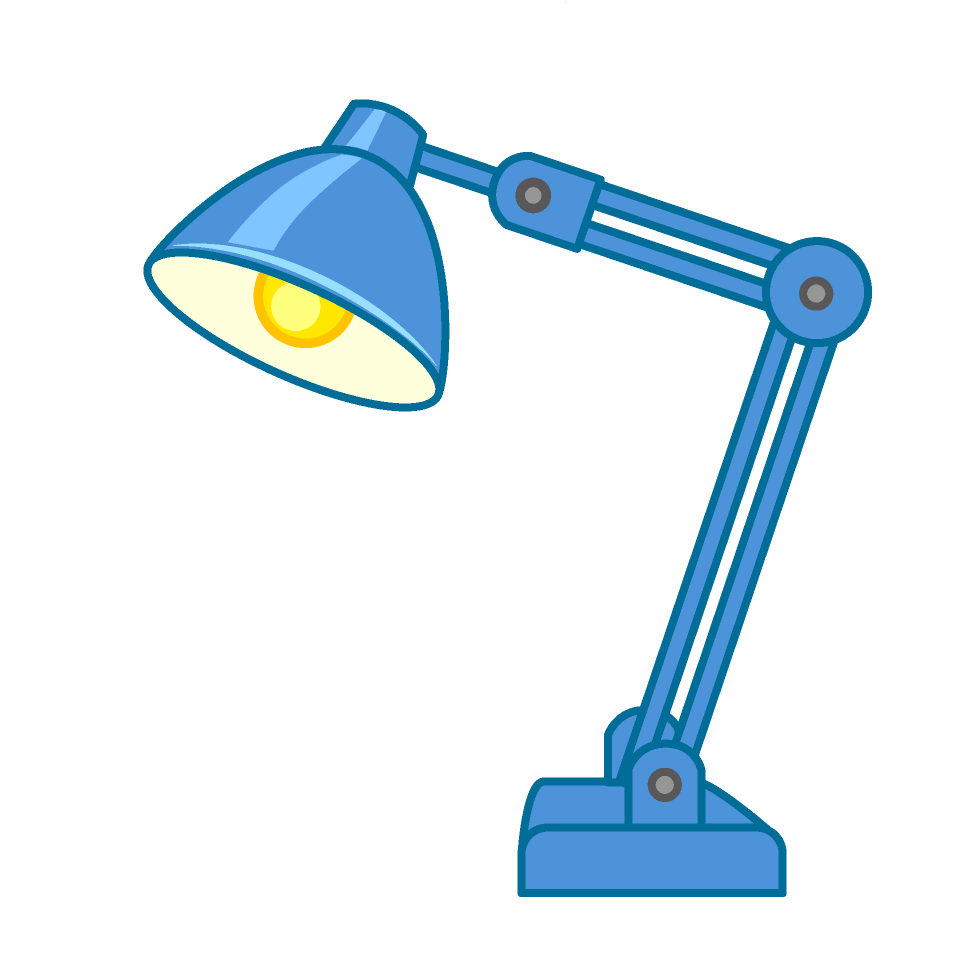
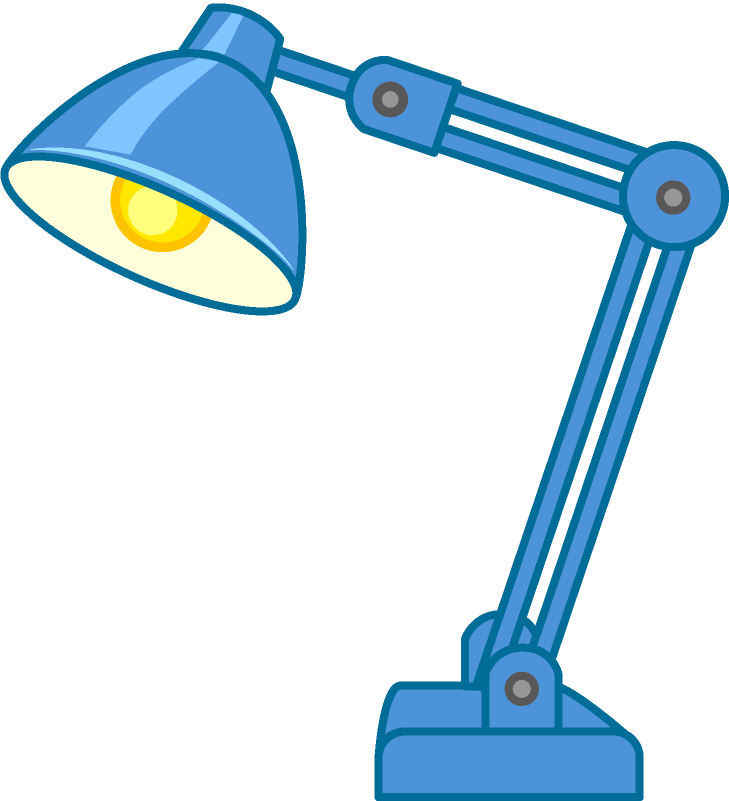
greatly optimised 3d phone animation, seems like best decision, still to test delpoyed

Changed region(s): [[0.0, 0.0, 1.0, 1.0]]

diff --git a/src/components/portfolioPage/phoneObg/phoneObj.tsx b/src/components/portfolioPage/phoneObg/phoneObj.tsx
@@ -8,19 +8,22 @@ import { OBJLoader } from "three/examples/jsm/loaders/OBJLoader";
 import { MTLLoader } from "three/examples/jsm/loaders/MTLLoader";
 import { DDSLoader } from "three-stdlib";
 import { Suspense } from "react";
-import {useRef, useEffect} from 'react'
+import {useRef, useState, useEffect } from 'react'
 import {Stage} from '@react-three/drei'
+
 
 THREE.DefaultLoadingManager.addHandler(/\.dds$/i, new DDSLoader());
 
-const Scene = () => {
-  const materials = useLoader(MTLLoader, "/obj4/Phone.mtl");
-  const obj = useLoader(OBJLoader, "/obj4/Phone.obj", (loader) => {
-    materials.preload();
-    loader.setMaterials(materials);
-  });
+var shouldUpdate = false    // necessary to link 2 components, props dont work here, redux would be slow in loop
 
-  let ref = useRef()
+
+const Scene = (props:{isVisible:boolean}) => {
+   
+    const materials = useLoader(MTLLoader, "/obj4/Phone.mtl");
+    const obj = useLoader(OBJLoader, "/obj4/Phone.obj", (loader) => {
+      materials.preload();
+      loader.setMaterials(materials);
+    });
 
 
     const meshBox= new THREE.Box3().setFromObject(obj.children[0])
@@ -35,46 +38,78 @@ const Scene = () => {
     obj.children[0].rotation.x = 1.58
     obj.children[0].rotation.z = 0.025
     obj.children[0].rotation.y = 0.03
-
-
 //seems like ready
 
-let starttime = 0;
-let initialPosition = 5;
-let targetPosition = 1;
-let animationDuration = 3; //
+    let starttime = 0;
+    let initialPosition = 5;
+    let targetPosition = 1;
+    let animationDuration = 3; //
 
 function calculatePosition(time:any) {
   // Рассчитываем прогресс анимации в диапазоне от 0 до 1
   var progress = time / animationDuration;
   // Применяем логарифмическую функцию для замедления
-  var position = initialPosition + (targetPosition - initialPosition) * Math.log(1 + progress * 9);
-  return position;
+  return initialPosition + (targetPosition - initialPosition) * Math.log(1 + progress * 9);
+  
 }
 
-  useFrame(({clock})=>{ 
-    let time = clock.getElapsedTime()
-    // console.log(obj.children[0]);
-    obj.children[0].rotation.z += 0.03
-    obj.children[0].position.x >0? obj.children[0].position.x = calculatePosition(time/10):null
+const animate = (time:number)=>{
+    obj.children[0].rotation.z += 0.03 
+    if(obj.children[0].position.x >0){
+        obj.children[0].position.x = calculatePosition(time/10) 
+    }
+    
+    
+}
 
+  let visibility = props.isVisible
+  useFrame(({clock}, state, delta)=>{ 
+    // console.log('useFrame', shouldUpdate)
+    let time = clock.getElapsedTime()
+    // console.log(state);
+    shouldUpdate?animate(time):null
   })
 
 
-  return <primitive ref={ref} object={obj} scale={2.2} position={[0, 0, 0]} />;
+  return (
+      <primitive  object={obj} scale={2.2} position={[0, 0, 0]} />
+  )
 };
 
+
+
+
+
 export default function SecondPhone() {
+  let ref = useRef(null)
+  let focused = useRef(true)
+  useEffect(()=>{
+        const cachedRef = ref.current
+        const observer = new IntersectionObserver((entries) => {
+            entries.forEach((entry) => {
+              let visible=()=>{
+                shouldUpdate = true
+                console.log('INTERSECTING')
+              }
+              let hidden=()=>{
+                shouldUpdate = false
+                console.log('NOT INTERSECTING')
+              }
+              entry.isIntersecting? visible(): hidden()
+            });
+          });
+
+          cachedRef? observer.observe(cachedRef) : null
+  }, [])
 
 
   return (
-    <div className="bg-bg400 h-[80vh] w-[61vw]">
+    <div ref={ref} style={{willChange:'transform'}} className="bg-bg400 h-[80vh] w-[61vw]">
       <Canvas>
-      <ambientLight intensity={1} ></ambientLight>
       {/* <axesHelper args={[15]} /> */}
         <Suspense fallback={null}>
-            <ambientLight intensity={1}></ambientLight>
-          <Scene/>
+            <ambientLight intensity={2}></ambientLight>
+          <Scene isVisible={focused.current}/>
           {/* <OrbitControls /> */}
         </Suspense>
       </Canvas>

diff --git a/src/components/cvBtn.tsx b/src/components/cvBtn.tsx
@@ -31,15 +31,15 @@ export default function CvBtn (){
             rotate-[0deg]
             pointer-events-none
             shadow-[0_35px_0px_25px_rgba(23,25,26,1)]
-            fixed z-[-9999] h-[80vh] w-[20vw] bg-darkGreen 
-            transform-gpu transition-all duration-500
+            fixed z-[-9999999999] h-[80vh] w-[20vw] bg-darkGreen 
+         transition-all duration-500
             origin-bottom-left
             top-[10vh] right-[-22vw]
             group-hover/btn:rotate-[-20deg]
             group-hover/btn:top-[20vh]    group-hover/btn:right-[-20vw] group-hover:rotate-[-20deg] group-hover/btn:block
 
             "> 
-                <p className="text-3xl relative z-[2] text-lightPrimary">Resume</p>
+                <p className="text-3xl absolute z-[2] text-lightPrimary">Resume</p>
             </div>
     </div>
     )

diff --git a/src/components/header.tsx b/src/components/header.tsx
@@ -2,7 +2,7 @@ import NavBtn from "./headerBtn";
 import CvBtn from "./cvBtn";
 export default function Header() {
     return(
-        <div style={{willChange:'transform'}}className="bg-transparent absolute z-[9999] w-full h-min flex flex-row justify-center align-center">
+        <div style={{willChange:'transform', transform:'translate(0)'}}className="bg-transparent absolute z-[99] w-full h-min flex flex-row justify-center align-center">
         <header className=" rounded-3xl shadow-[0_11px_25px_6px_rgba(0,0,0,0.4)] z-[9999] mt-[1.5vh] items-center sticky flex flex-row justify-evenly w-[80vw] h-[7vh] bg-bg100">
             <NavBtn title="Home" route="/"></NavBtn>
             <NavBtn title="Portfolio" route="/portfolio"></NavBtn>

diff --git a/src/components/contacts/contactsBook.tsx b/src/components/contacts/contactsBook.tsx
@@ -89,7 +89,7 @@ let isFirstRender = useRef(true)
                     
                 </div>
 
-                <img className="absolute right-[0] bottom-[5vh] z-[998] h-[100vh] w-[30vw]" src='/lamp.png' alt='lamp' width={400} height={700}></img>
+                <img className="fixed right-[-5vw] mt-[10vh] bottom-[5vh] z-[999] h-[90vh] w-[40vw]" src='/lamp.png' alt='lamp' width={400} height={700}></img>
                             
         </div>
     )
